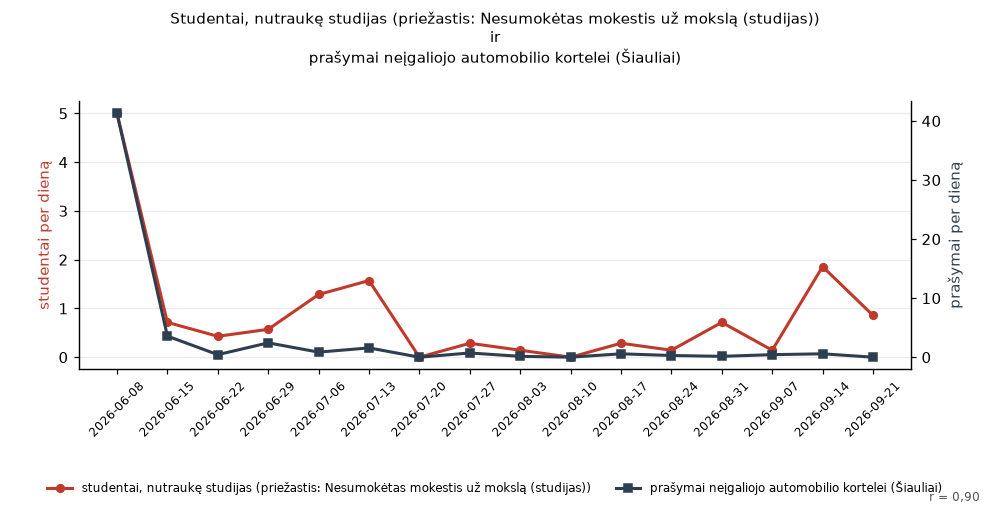
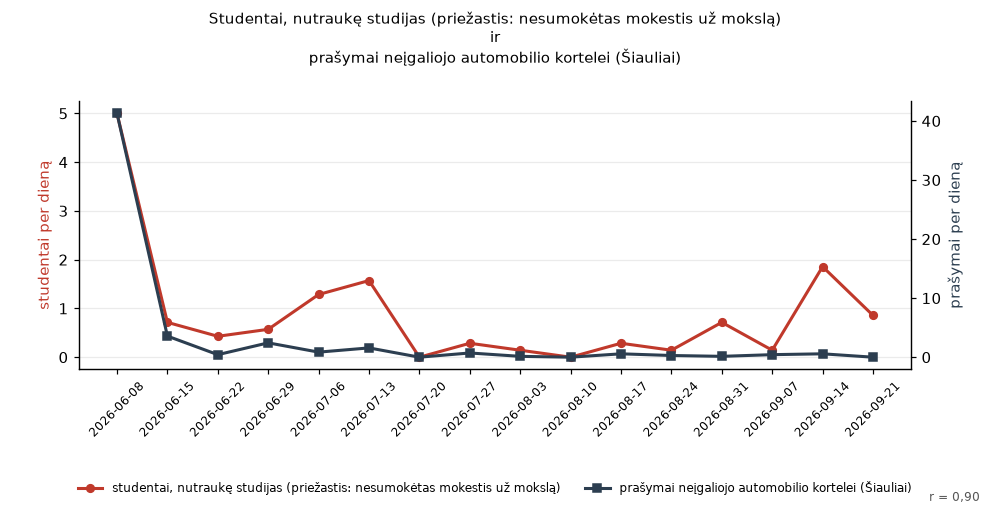
Post: readable study-interruption reason

Changed region(s): [[0.0303, 0.9486, 0.9697, 0.9783], [0.1818, 0.0296, 0.8485, 0.0593]]

diff --git a/post/2026-10-23-f73f6895/index.html b/post/2026-10-23-f73f6895/index.html
@@ -1,10 +1,10 @@
 <!doctype html>
 <html lang="lt"><head><meta charset="utf-8">
 <meta name="viewport" content="width=device-width, initial-scale=1">
-<title>Pastaraisiais mėnesiais lyg tyčia sutapo: studentai, nutraukę studijas (priežastis: Nesumokėtas mokestis už mokslą (studijas)) ir prašymai neįgaliojo automobilio kortelei (Šiauliai) · Lyg tyčia</title>
+<title>Pastaraisiais mėnesiais lyg tyčia sutapo: studentai, nutraukę studijas (priežastis: nesumokėtas mokestis už mokslą) ir prašymai neįgaliojo automobilio kortelei (Šiauliai) · Lyg tyčia</title>
 <meta property="og:type" content="article">
 <meta property="og:site_name" content="Lyg tyčia">
-<meta property="og:title" content="Pastaraisiais mėnesiais lyg tyčia sutapo: studentai, nutraukę studijas (priežastis: Nesumokėtas mokestis už mokslą (studijas)) ir prašymai neįgaliojo automobilio kortelei (Šiauliai)">
+<meta property="og:title" content="Pastaraisiais mėnesiais lyg tyčia sutapo: studentai, nutraukę studijas (priežastis: nesumokėtas mokestis už mokslą) ir prašymai neįgaliojo automobilio kortelei (Šiauliai)">
 <meta property="og:description" content="Studentai, nutraukę studijas (priežastis: Nesumokėtas mokestis už mokslą (studijas)) ir prašymai neįgaliojo automobilio kortelei (Šiauliai) kyla ir krenta kartu: r = 0,90 per 16 sav. (2026-06-08 – 2026-09-21).">
 <meta property="og:url" content="https://1gnas3000.github.io/lygtycia/post/2026-10-23-f73f6895/">
 <meta property="og:image" content="https://1gnas3000.github.io/lygtycia/post/2026-10-23-f73f6895/chart.png">
@@ -26,18 +26,18 @@
 <article><p class="meta">2026-10-23
  · panašios kreivės · savaitės duomenys
  · r = 0,90</p>
-<h2>Pastaraisiais mėnesiais lyg tyčia sutapo: studentai, nutraukę studijas (priežastis: Nesumokėtas mokestis už mokslą (studijas)) ir prašymai neįgaliojo automobilio kortelei (Šiauliai)</h2>
+<h2>Pastaraisiais mėnesiais lyg tyčia sutapo: studentai, nutraukę studijas (priežastis: nesumokėtas mokestis už mokslą) ir prašymai neįgaliojo automobilio kortelei (Šiauliai)</h2>
 
 <p><a href="../../post/2026-10-23-f73f6895/"><img src="../../post/2026-10-23-f73f6895/chart.png"
  alt="grafikas" loading="lazy"></a></p>
 <p class="sources">Duomenų šaltiniai:
  <a href="https://get.data.gov.lt/datasets/gov/nsa/sr/studiju_pertraukimas/Pertraukimas" rel="noopener">Studijų pertraukimai ir nutraukimai (NŠA)</a> · <a href="https://get.data.gov.lt/datasets/gov/ndnt/autokorteliu_isdavimai/AutoKortele" rel="noopener">Neįgaliojo automobilio kortelių prašymai (NDNT)</a></p>
 
-<p class="text">Studentai, nutraukę studijas (priežastis: Nesumokėtas mokestis už mokslą (studijas)) ir prašymai neįgaliojo automobilio kortelei (Šiauliai) kyla ir krenta kartu: r = 0,90 per 16 sav. (2026-06-08 – 2026-09-21).</p><p class="text">Duomenys: „studentai, nutraukę studijas (priežastis: Nesumokėtas mokestis už mokslą (studijas))“ (studentai) ir „prašymai neįgaliojo automobilio kortelei (Šiauliai)“ (prašymai).</p><p class="text">Tyler Vigen&#39;o „Spurious Correlations“ dvasia: iš tūkstančių atsitiktinių Lietuvos atvirų duomenų porų šios dvi nupiešė tą pačią kreivę.</p>
+<p class="text">Studentai, nutraukę studijas (priežastis: Nesumokėtas mokestis už mokslą (studijas)) ir prašymai neįgaliojo automobilio kortelei (Šiauliai) kyla ir krenta kartu: r = 0,90 per 16 sav. (2026-06-08 – 2026-09-21).</p><p class="text">Duomenys: „studentai, nutraukę studijas (priežastis: nesumokėtas mokestis už mokslą)“ (studentai) ir „prašymai neįgaliojo automobilio kortelei (Šiauliai)“ (prašymai).</p><p class="text">Tyler Vigen&#39;o „Spurious Correlations“ dvasia: iš tūkstančių atsitiktinių Lietuvos atvirų duomenų porų šios dvi nupiešė tą pačią kreivę.</p>
 <p class="share">Dalintis:
  <a href="https://www.facebook.com/sharer/sharer.php?u=https%3A//1gnas3000.github.io/lygtycia/post/2026-10-23-f73f6895/"
  rel="noopener">Facebook</a> ·
- <a href="https://mastodonshare.com/?text=Pastaraisiais%20m%C4%97nesiais%20lyg%20ty%C4%8Dia%20sutapo%3A%20studentai%2C%20nutrauk%C4%99%20studijas%20%28prie%C5%BEastis%3A%20Nesumok%C4%97tas%20mokestis%20u%C5%BE%20moksl%C4%85%20%28studijas%29%29%20ir%20pra%C5%A1ymai%20ne%C4%AFgaliojo%20automobilio%20kortelei%20%28%C5%A0iauliai%29&url=https%3A//1gnas3000.github.io/lygtycia/post/2026-10-23-f73f6895/"
+ <a href="https://mastodonshare.com/?text=Pastaraisiais%20m%C4%97nesiais%20lyg%20ty%C4%8Dia%20sutapo%3A%20studentai%2C%20nutrauk%C4%99%20studijas%20%28prie%C5%BEastis%3A%20nesumok%C4%97tas%20mokestis%20u%C5%BE%20moksl%C4%85%29%20ir%20pra%C5%A1ymai%20ne%C4%AFgaliojo%20automobilio%20kortelei%20%28%C5%A0iauliai%29&url=https%3A//1gnas3000.github.io/lygtycia/post/2026-10-23-f73f6895/"
  rel="noopener">Mastodon</a> ·
  <a href="https://www.linkedin.com/sharing/share-offsite/?url=https%3A//1gnas3000.github.io/lygtycia/post/2026-10-23-f73f6895/"
  rel="noopener">LinkedIn</a></p>

diff --git a/index.html b/index.html
@@ -34,7 +34,7 @@
  <a href="https://www.linkedin.com/sharing/share-offsite/?url=https%3A//1gnas3000.github.io/lygtycia/post/2026-10-23-66751784/"
  rel="noopener">LinkedIn</a></p></article>
 <article><p class="meta">2026-10-23</p>
-<h2><a href="./post/2026-10-23-f73f6895/">Pastaraisiais mėnesiais lyg tyčia sutapo: studentai, nutraukę studijas (priežastis: Nesumokėtas mokestis už mokslą (studijas)) ir prašymai neįgaliojo automobilio kortelei (Šiauliai)</a></h2>
+<h2><a href="./post/2026-10-23-f73f6895/">Pastaraisiais mėnesiais lyg tyčia sutapo: studentai, nutraukę studijas (priežastis: nesumokėtas mokestis už mokslą) ir prašymai neįgaliojo automobilio kortelei (Šiauliai)</a></h2>
 
 <p><a href="./post/2026-10-23-f73f6895/"><img src="./post/2026-10-23-f73f6895/chart.png"
  alt="grafikas" loading="lazy"></a></p>
@@ -45,7 +45,7 @@
 <p class="share">Dalintis:
  <a href="https://www.facebook.com/sharer/sharer.php?u=https%3A//1gnas3000.github.io/lygtycia/post/2026-10-23-f73f6895/"
  rel="noopener">Facebook</a> ·
- <a href="https://mastodonshare.com/?text=Pastaraisiais%20m%C4%97nesiais%20lyg%20ty%C4%8Dia%20sutapo%3A%20studentai%2C%20nutrauk%C4%99%20studijas%20%28prie%C5%BEastis%3A%20Nesumok%C4%97tas%20mokestis%20u%C5%BE%20moksl%C4%85%20%28studijas%29%29%20ir%20pra%C5%A1ymai%20ne%C4%AFgaliojo%20automobilio%20kortelei%20%28%C5%A0iauliai%29&url=https%3A//1gnas3000.github.io/lygtycia/post/2026-10-23-f73f6895/"
+ <a href="https://mastodonshare.com/?text=Pastaraisiais%20m%C4%97nesiais%20lyg%20ty%C4%8Dia%20sutapo%3A%20studentai%2C%20nutrauk%C4%99%20studijas%20%28prie%C5%BEastis%3A%20nesumok%C4%97tas%20mokestis%20u%C5%BE%20moksl%C4%85%29%20ir%20pra%C5%A1ymai%20ne%C4%AFgaliojo%20automobilio%20kortelei%20%28%C5%A0iauliai%29&url=https%3A//1gnas3000.github.io/lygtycia/post/2026-10-23-f73f6895/"
  rel="noopener">Mastodon</a> ·
  <a href="https://www.linkedin.com/sharing/share-offsite/?url=https%3A//1gnas3000.github.io/lygtycia/post/2026-10-23-f73f6895/"
  rel="noopener">LinkedIn</a></p></article>
